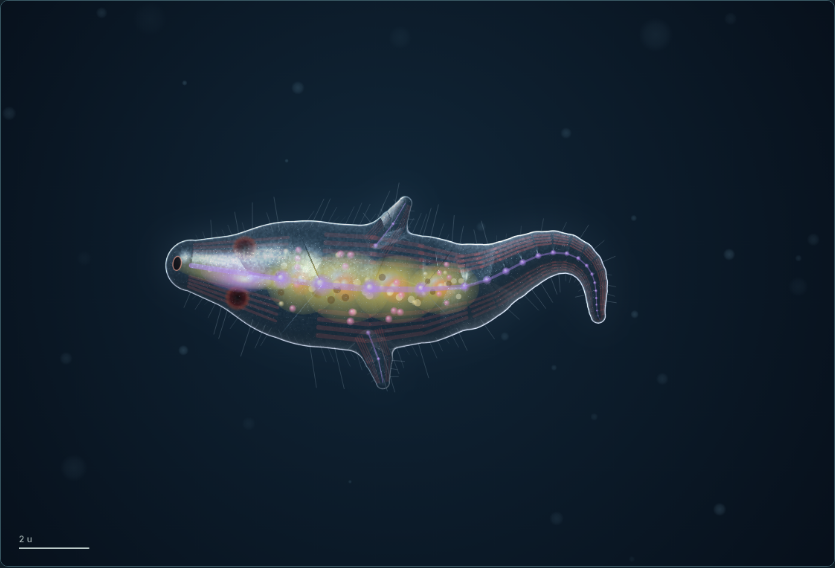
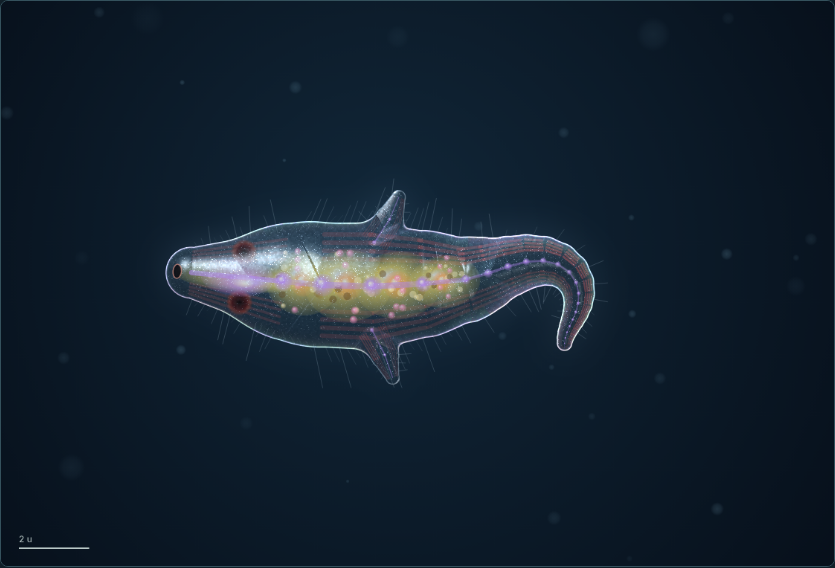
ALIFE 2.0: WebGL2 skin renderer with CPU fallback
Two-pass GPU version of the distance-field skin (field, then shading with
thin-film sheen). The CPU renderer stays as the reference and the fallback.

Claude-Session: https://claude.ai/code/session_01ES2d8R5HP5q9J5W3wr1sHc

Changed region(s): [[0.1868, 0.3292, 0.7473, 0.6884]]

diff --git a/alife2-gpu.js b/alife2-gpu.js
@@ -1,0 +1,135 @@
+// ALIFE 2.0 — WebGL2 skin renderer.
+//
+// Same method as the CPU renderer in alife2-render.js (capsule distance field,
+// exact union inside a chain, smooth union between chains, thickness as a
+// height field), evaluated per pixel on the GPU in two passes:
+//   1. field  : distance, local radius, thickness, tissue, body-fixed coords
+//   2. shade  : normals from the height field, translucent lit skin
+// The CPU renderer remains the reference and the fallback.
+(function (G) {
+  'use strict';
+  const A = G.ALIFE2 = G.ALIFE2 || {};
+  const MAXS = 192;
+  const VS = `#version 300 es
+in vec2 p; void main(){ gl_Position = vec4(p, 0., 1.); }`;
+  const FIELD = `#version 300 es
+precision highp float;
+uniform sampler2D uSeg; uniform int uN; uniform vec2 uRes;
+layout(location=0) out vec4 o0; layout(location=1) out vec4 o1;
+void merge(inout float S, inout float R, inout float Z, inout vec4 T, float gs, float gr, float gz, vec4 gt){
+  if (gs > 1e8) return;
+  if (S > 1e8) { S = gs; R = gr; Z = gz; T = gt; return; }
+  float k = 0.55 * min(R, gr) + 1.2, m = clamp(0.5 + 0.5 * (gs - S) / k, 0., 1.);
+  S = mix(gs, S, m) - k * m * (1. - m); R = mix(gr, R, m); Z = mix(gz, Z, m);
+  T = vec4(mix(gt.xy, T.xy, m), m < 0.5 ? gt.zw : T.zw);
+}
+void main(){
+  vec2 q = vec2(gl_FragCoord.x, uRes.y - gl_FragCoord.y);
+  float S = 1e9, R = 1., Z = 1.; vec4 T = vec4(0.);
+  float gs = 1e9, gr = 1., gz = 1., cur = -1.; vec4 gt = vec4(0.);
+  for (int i = 0; i < ${MAXS}; i++) {
+    if (i >= uN) break;
+    vec4 a = texelFetch(uSeg, ivec2(i, 0), 0), b = texelFetch(uSeg, ivec2(i, 1), 0), c = texelFetch(uSeg, ivec2(i, 2), 0);
+    if (c.z != cur) { merge(S, R, Z, T, gs, gr, gz, gt); cur = c.z; gs = 1e9; }
+    vec2 e = a.zw - a.xy, d = q - a.xy; float L2 = max(dot(e, e), 1e-9), L = sqrt(L2), tr = dot(d, e) / L2, t = clamp(tr, 0., 1.);
+    float r = mix(b.x, b.y, t), s = length(d - t * e) - r;
+    if (s < gs) { gs = s; gr = r; gz = mix(b.z, b.w, t); gt = vec4(c.x, c.y, c.w + tr * L, (d.x * e.y - d.y * e.x) / L); }
+  }
+  merge(S, R, Z, T, gs, gr, gz, gt);
+  float u = clamp(-S / R, 0., 1.);
+  o0 = vec4(S, R, Z, S > 0.5 ? 0. : Z * sqrt(u * (2. - u)));
+  o1 = T;
+}`;
+  const SHADE = `#version 300 es
+precision highp float;
+uniform sampler2D t0, t1; uniform vec3 uBody, uRim, uArm, uDeep;
+out vec4 o;
+float hash(vec2 p){ p = fract(p * vec2(123.34, 456.21)); p += dot(p, p + 45.32); return fract(p.x * p.y); }
+float noise(vec2 x){ vec2 i = floor(x), f = fract(x); f = f * f * (3. - 2. * f);
+  return mix(mix(hash(i), hash(i + vec2(1, 0)), f.x), mix(hash(i + vec2(0, 1)), hash(i + vec2(1, 1)), f.x), f.y); }
+float Hh(ivec2 c){ return texelFetch(t0, c, 0).w; }
+void main(){
+  ivec2 c = ivec2(gl_FragCoord.xy);
+  vec4 f = texelFetch(t0, c, 0); float s = f.x;
+  if (s > 0.5) { o = vec4(0.); return; }
+  vec4 T = texelFetch(t1, c, 0); float a = T.x, k = T.y, U = T.z, V = T.w, R = f.y, Z = f.z, H = f.w;
+  float cov = clamp(0.5 - s, 0., 1.);
+  // normal from the thickness field (canvas y is down, GL y is up); two scales to keep it smooth
+  float nx = (Hh(c + ivec2(-1, 0)) - Hh(c + ivec2(1, 0))) * 0.3 + (Hh(c + ivec2(-2, 0)) - Hh(c + ivec2(2, 0))) * 0.1;
+  float ny = (Hh(c + ivec2(0, 1)) - Hh(c + ivec2(0, -1))) * 0.3 + (Hh(c + ivec2(0, 2)) - Hh(c + ivec2(0, -2))) * 0.1;
+  vec3 n = normalize(vec3(nx, ny, 1.));
+  vec3 L = normalize(vec3(-0.42, -0.58, 0.70)), L2 = normalize(vec3(0.6, 0.5, 0.35)), Hv = normalize(L + vec3(0, 0, 1));
+  float diff = max(0., dot(n, L)), fill = max(0., dot(n, L2)), back = max(0., -dot(n.xy, L.xy) * 0.6 + n.z * 0.2);
+  float sp = pow(max(0., dot(n, Hv)), 30. + 60. * a) * (0.6 + 0.7 * a) + pow(max(0., dot(n, normalize(L2 + vec3(0, 0, 1)))), 40.) * 0.25;
+  float rim = pow(1. - n.z, 2.2), thick = H / (Z + 1e-6), e = -s;
+  // body-fixed texture: granules at three scales and fine rings around the body
+  float gr = noise(vec2(U, V) * 0.42), mid = noise(vec2(U, V) * 0.9 + 3.), fine = noise(vec2(U, V) * 1.9 + 9.);
+  float ring = 0.5 + 0.5 * sin(U * 6.283 / max(2.6, R * 0.16));
+  float tex = 0.70 + 0.34 * gr + 0.14 * mid + 0.12 * fine + (0.10 + 0.14 * a) * ring * thick;
+  float cut = exp(-(e - 0.9) * (e - 0.9) * 0.9), gap = exp(-(e - 3.2) * (e - 3.2) * 0.35);
+  float speck = smoothstep(0.80, 0.95, fine) * thick * 0.5;
+  // thin-film sheen on the cuticle, strongest at grazing angles
+  vec3 film = 0.5 + 0.5 * cos(6.283 * (vec3(0., 0.33, 0.67) + n.z * 1.4 + U * 0.004 + gr * 0.25));
+  vec3 base = mix(uBody, uArm, a);
+  float edge = rim * 0.6 + cut * 0.4 + speck;
+  vec3 col = base * (0.20 + 0.58 * diff + 0.12 * fill) * tex + uDeep * 0.20 * back + uRim * edge + film * rim * (0.22 + 0.25 * a) + sp;
+  float al = (0.05 + 0.34 * k + 0.40 * a) * (0.35 + 0.65 * thick) * (0.65 + 0.7 * gr) * (1. - 0.45 * gap) + rim * 0.55 + cut * 0.42 + sp + speck * 0.6;
+  al = min(al, 0.96) * cov;
+  o = vec4(col * al, al);
+}`;
+
+  class GpuSkin {
+    constructor() {
+      this.ok = false;
+      try {
+        this.canvas = typeof OffscreenCanvas !== 'undefined' ? new OffscreenCanvas(16, 16) : document.createElement('canvas');
+        const gl = this.gl = this.canvas.getContext('webgl2', { alpha: true, premultipliedAlpha: true, antialias: false });
+        if (!gl || !gl.getExtension('EXT_color_buffer_float')) return;
+        const sh = (t, src) => { const s = gl.createShader(t); gl.shaderSource(s, src); gl.compileShader(s); if (!gl.getShaderParameter(s, gl.COMPILE_STATUS)) throw new Error(gl.getShaderInfoLog(s)); return s; };
+        const prog = fs => { const p = gl.createProgram(); gl.attachShader(p, sh(gl.VERTEX_SHADER, VS)); gl.attachShader(p, sh(gl.FRAGMENT_SHADER, fs)); gl.bindAttribLocation(p, 0, 'p'); gl.linkProgram(p); if (!gl.getProgramParameter(p, gl.LINK_STATUS)) throw new Error(gl.getProgramInfoLog(p)); return p; };
+        this.pField = prog(FIELD); this.pShade = prog(SHADE);
+        const vb = gl.createBuffer(); gl.bindBuffer(gl.ARRAY_BUFFER, vb); gl.bufferData(gl.ARRAY_BUFFER, new Float32Array([-1, -1, 3, -1, -1, 3]), gl.STATIC_DRAW);
+        gl.enableVertexAttribArray(0); gl.vertexAttribPointer(0, 2, gl.FLOAT, false, 0, 0);
+        this.seg = gl.createTexture(); this.data = new Float32Array(MAXS * 3 * 4);
+        gl.bindTexture(gl.TEXTURE_2D, this.seg); gl.texImage2D(gl.TEXTURE_2D, 0, gl.RGBA32F, MAXS, 3, 0, gl.RGBA, gl.FLOAT, this.data);
+        gl.texParameteri(gl.TEXTURE_2D, gl.TEXTURE_MIN_FILTER, gl.NEAREST); gl.texParameteri(gl.TEXTURE_2D, gl.TEXTURE_MAG_FILTER, gl.NEAREST);
+        this.fbo = gl.createFramebuffer(); this.tex = [gl.createTexture(), gl.createTexture()]; this.w = 0; this.h = 0;
+        this.ok = true;
+      } catch (e) { this.error = String(e.message || e); this.ok = false; }
+    }
+    resize(w, h) {
+      if (w === this.w && h === this.h) return;
+      const gl = this.gl; this.w = w; this.h = h; this.canvas.width = w; this.canvas.height = h;
+      gl.bindFramebuffer(gl.FRAMEBUFFER, this.fbo);
+      this.tex.forEach((t, i) => {
+        gl.bindTexture(gl.TEXTURE_2D, t); gl.texImage2D(gl.TEXTURE_2D, 0, gl.RGBA32F, w, h, 0, gl.RGBA, gl.FLOAT, null);
+        gl.texParameteri(gl.TEXTURE_2D, gl.TEXTURE_MIN_FILTER, gl.NEAREST); gl.texParameteri(gl.TEXTURE_2D, gl.TEXTURE_MAG_FILTER, gl.NEAREST);
+        gl.framebufferTexture2D(gl.FRAMEBUFFER, gl.COLOR_ATTACHMENT0 + i, gl.TEXTURE_2D, t, 0);
+      });
+      gl.drawBuffers([gl.COLOR_ATTACHMENT0, gl.COLOR_ATTACHMENT1]);
+      if (gl.checkFramebufferStatus(gl.FRAMEBUFFER) !== gl.FRAMEBUFFER_COMPLETE) this.ok = false;
+    }
+    // groups: arrays of pixel-space segments in draw order (from Renderer.layout). Returns the skin canvas.
+    render(groups, w, h, colors) {
+      const gl = this.gl, d = this.data; this.resize(w, h); if (!this.ok) return null;
+      let n = 0;
+      for (const grp of groups) for (const p of grp) {
+        if (n >= MAXS) break;
+        d.set([p.ax, p.ay, p.bx, p.by], n * 4); d.set([p.r0, p.r1, p.z0, p.z1], (MAXS + n) * 4); d.set([p.armor, p.skin, p.group, p.u0], (2 * MAXS + n) * 4); n++;
+      }
+      gl.viewport(0, 0, w, h); gl.disable(gl.BLEND);
+      gl.activeTexture(gl.TEXTURE0); gl.bindTexture(gl.TEXTURE_2D, this.seg); gl.texSubImage2D(gl.TEXTURE_2D, 0, 0, 0, MAXS, 3, gl.RGBA, gl.FLOAT, d);
+      gl.bindFramebuffer(gl.FRAMEBUFFER, this.fbo); gl.useProgram(this.pField);
+      gl.uniform1i(gl.getUniformLocation(this.pField, 'uSeg'), 0); gl.uniform1i(gl.getUniformLocation(this.pField, 'uN'), n); gl.uniform2f(gl.getUniformLocation(this.pField, 'uRes'), w, h);
+      gl.drawArrays(gl.TRIANGLES, 0, 3);
+      gl.bindFramebuffer(gl.FRAMEBUFFER, null); gl.useProgram(this.pShade);
+      gl.activeTexture(gl.TEXTURE0); gl.bindTexture(gl.TEXTURE_2D, this.tex[0]); gl.activeTexture(gl.TEXTURE1); gl.bindTexture(gl.TEXTURE_2D, this.tex[1]);
+      gl.uniform1i(gl.getUniformLocation(this.pShade, 't0'), 0); gl.uniform1i(gl.getUniformLocation(this.pShade, 't1'), 1);
+      for (const k of ['Body', 'Rim', 'Arm', 'Deep']) gl.uniform3fv(gl.getUniformLocation(this.pShade, 'u' + k), colors[k.toLowerCase()]);
+      gl.clearColor(0, 0, 0, 0); gl.clear(gl.COLOR_BUFFER_BIT); gl.drawArrays(gl.TRIANGLES, 0, 3);
+      return this.canvas;
+    }
+  }
+
+  A.gpu = { GpuSkin, MAXS };
+})(typeof globalThis !== 'undefined' ? globalThis : this);

diff --git a/alife2-render.js b/alife2-render.js
@@ -30,6 +30,21 @@
       this.img = this.canvas ? this.canvas.getContext('2d').createImageData(w, h) : { data: new Uint8ClampedArray(n * 4), width: w, height: h };
     }
 
+    // Pixel-space segments grouped by chain, thickest chain first, with a running body coordinate u0.
+    layout(segs, view, q) {
+      const w = Math.max(8, Math.round(view.w * q)), h = Math.max(8, Math.round(view.h * q)), sc = view.scale * q;
+      const ps = segs.map(s => ({
+        ax: (s.ax - view.cx) * sc + w / 2, ay: (s.ay - view.cy) * sc + h / 2, bx: (s.bx - view.cx) * sc + w / 2, by: (s.by - view.cy) * sc + h / 2,
+        r0: Math.max(0.35, s.r0 * sc), r1: Math.max(0.35, s.r1 * sc), z0: Math.max(0.35, s.z0 * sc), z1: Math.max(0.35, s.z1 * sc), armor: s.p.armor, skin: s.p.skin, group: s.group
+      }));
+      const groups = new Map();
+      for (const p of ps) { if (!groups.has(p.group)) groups.set(p.group, []); groups.get(p.group).push(p); }
+      const order = [...groups.values()].sort((a, b) => Math.max(...b.map(p => p.r0)) - Math.max(...a.map(p => p.r0)));
+      for (const grp of order) { let run = grp[0].group * 37.3; for (const p of grp) { p.u0 = run; run += Math.hypot(p.bx - p.ax, p.by - p.ay); } }
+      return order;
+    }
+    colors(hue) { return { body: hsl(hue, 0.30, 0.60), rim: hsl(hue + 25, 0.45, 0.88), arm: hsl(hue - 25, 0.22, 0.55), deep: hsl(hue + 200, 0.5, 0.3) }; }
+
     // segs: world-space segments (plan.segs or body.segs). view: {cx, cy, scale, w, h}.
     // Returns the RGBA field; the bounding box drawn is left in this.box.
     field(segs, view, opt) {
@@ -38,13 +53,7 @@
       this.resize(w, h);
       const { S, R, Z, AR, SK, H, U, V, s2, r2, z2, a2, k2, u2, v2 } = this;
       S.fill(BIG);
-      const ps = segs.map(s => ({
-        ax: (s.ax - view.cx) * sc + w / 2, ay: (s.ay - view.cy) * sc + h / 2, bx: (s.bx - view.cx) * sc + w / 2, by: (s.by - view.cy) * sc + h / 2,
-        r0: Math.max(0.35, s.r0 * sc), r1: Math.max(0.35, s.r1 * sc), z0: Math.max(0.35, s.z0 * sc), z1: Math.max(0.35, s.z1 * sc), armor: s.p.armor, skin: s.p.skin, group: s.group
-      }));
-      const groups = new Map();
-      for (const p of ps) { if (!groups.has(p.group)) groups.set(p.group, []); groups.get(p.group).push(p); }
-      const order = [...groups.values()].sort((a, b) => Math.max(...b.map(p => p.r0)) - Math.max(...a.map(p => p.r0)));
+      const order = this.layout(segs, view, q);
       let X0 = w, Y0 = h, X1 = 0, Y1 = 0;
       for (const grp of order) {
         let gx0 = w, gy0 = h, gx1 = 0, gy1 = 0, rmax = 0;
@@ -58,9 +67,8 @@
         }
         if (gx1 < gx0 || gy1 < gy0) continue;
         for (let y = gy0; y <= gy1; y++) s2.fill(BIG, y * w + gx0, y * w + gx1 + 1);
-        let run = grp[0].group * 37.3;
         for (const p of grp) {
-          const u0 = run; run += Math.hypot(p.bx - p.ax, p.by - p.ay);
+          const u0 = p.u0;
           const ex = p.bx - p.ax, ey = p.by - p.ay, L2 = ex * ex + ey * ey || 1e-9, dr = p.r1 - p.r0, dz = p.z1 - p.z0;
           for (let y = p.y0; y <= p.y1; y++) {
             const dy = y + 0.5 - p.ay; let i = y * w + p.x0;
@@ -92,7 +100,7 @@
         H[i] = Z[i] * Math.sqrt(u * (2 - u));
       }
       const hue = opt.hue == null ? 170 : opt.hue;
-      const body = hsl(hue, 0.30, 0.60), rimC = hsl(hue + 25, 0.45, 0.88), arm = hsl(hue - 25, 0.22, 0.55), deep = hsl(hue + 200, 0.5, 0.3);
+      const { body, rim: rimC, arm, deep } = this.colors(hue);
       const lx = -0.42, ly = -0.58, lz = 0.70, hx = lx, hy = ly, hz = lz + 1, hn = Math.hypot(hx, hy, hz);
       for (let y = Y0; y <= Y1; y++) for (let x = X0, i = y * w + X0; x <= X1; x++, i++) {
         const s = S[i]; if (s > 0.5) continue;
@@ -119,15 +127,19 @@
     // Full picture: shadow, organs, skin, surface structures.
     draw(ctx, segs, view, opt) {
       opt = opt || {};
-      const img = this.field(segs, view, opt), q = this.box[4];
-      this.canvas.getContext('2d').putImageData(img, 0, 0);
+      let skin = null; this.used = 'cpu';
+      if (opt.gpu !== false && A.gpu) {
+        if (!this.gpuSkin) this.gpuSkin = new A.gpu.GpuSkin();
+        if (this.gpuSkin.ok && segs.length <= A.gpu.MAXS) { skin = this.gpuSkin.render(this.layout(segs, view, 1), view.w, view.h, this.colors(opt.hue == null ? 170 : opt.hue)); if (skin) this.used = 'gpu'; }
+      }
+      if (!skin) { const img = this.field(segs, view, opt); this.canvas.getContext('2d').putImageData(img, 0, 0); skin = this.canvas; }
       const T = (x, y) => [(x - view.cx) * view.scale + view.w / 2, (y - view.cy) * view.scale + view.h / 2], sc = view.scale;
       ctx.save();
       ctx.imageSmoothingEnabled = true; ctx.imageSmoothingQuality = 'high';
-      if (opt.shadow) { ctx.save(); ctx.globalAlpha = 0.45; ctx.filter = 'brightness(0) blur(' + Math.max(2, sc * 0.35) + 'px)'; ctx.drawImage(this.canvas, sc * 0.35, sc * 0.5, view.w, view.h); ctx.restore(); }
-      if (opt.glow !== false) { ctx.save(); ctx.globalAlpha = 0.35; ctx.globalCompositeOperation = 'lighter'; ctx.filter = 'blur(' + Math.max(3, sc * 0.5) + 'px)'; ctx.drawImage(this.canvas, 0, 0, view.w, view.h); ctx.restore(); }
+      if (opt.shadow) { ctx.save(); ctx.globalAlpha = 0.45; ctx.filter = 'brightness(0) blur(' + Math.max(2, sc * 0.35) + 'px)'; ctx.drawImage(skin, sc * 0.35, sc * 0.5, view.w, view.h); ctx.restore(); }
+      if (opt.glow !== false) { ctx.save(); ctx.globalAlpha = 0.35; ctx.globalCompositeOperation = 'lighter'; ctx.filter = 'blur(' + Math.max(3, sc * 0.5) + 'px)'; ctx.drawImage(skin, 0, 0, view.w, view.h); ctx.restore(); }
       if (opt.internals !== false) this.organs(ctx, segs, T, sc, opt);
-      ctx.drawImage(this.canvas, 0, 0, view.w, view.h);
+      ctx.drawImage(skin, 0, 0, view.w, view.h);
       this.surface(ctx, segs, T, sc, opt);
       ctx.restore();
     }

diff --git a/alife2-lab.js b/alife2-lab.js
@@ -75,7 +75,7 @@
   function frame(ms) {
     const mode = $('mode').value, dt = 1 / 60, ground = $('env').value === 'ground';
     if (mode === 'gallery') { drawGallery(dt); requestAnimationFrame(frame); return; }
-    const o = { hue: genome.hue, internals: $('internals').checked, shadow: ground && mode !== 'design', time: body.t };
+    const o = { gpu: $('gfx').value === 'gpu', hue: genome.hue, internals: $('internals').checked, shadow: ground && mode !== 'design', time: body.t };
     if (mode === 'live') {
       if (!paused) {
         body.cmd = cmd(); A.physics.step(body, dt);
@@ -106,7 +106,7 @@
       t += '\n実測（直近 ' + T.toFixed(1) + ' 秒）：速度 ' + (d / T).toFixed(2) + ' u/s ＝ ' + (d / T / info.length).toFixed(3) + ' 体長/s / 筋仕事率 ' + pw.toFixed(0)
         + ' / 移動コスト ' + (d > 0.05 ? (pw * T / (body.mass * d)).toFixed(0) : '—（ほぼ移動なし）') + (body.env.ground ? ' / 脚が支える体重 ' + ((body.carried || 0) * 100).toFixed(0) + '%' : '');
     }
-    $('stats').textContent = t;
+    $('stats').textContent = t + '\n描画：' + (renderer.used === 'gpu' ? 'GPU (WebGL2)' : 'CPU') + (renderer.gpuSkin && !renderer.gpuSkin.ok ? '（GPU不可：' + (renderer.gpuSkin.error || '浮動小数点描画非対応') + '）' : '');
   }
   function drawGallery(dt) {
     if (!gallery) gallery = A.bodyplan.SAMPLES.map(s => {
@@ -122,7 +122,7 @@
       const sc = Math.min((w - 40) / (q.d.length + 3), (h - 60) / (q.d.width + 3)) * 0.9, v = { cx: q.cx, cy: q.cy, scale: sc, w: Math.round(w), h: Math.round(h) };
       ctx.save(); ctx.translate(x, y); ctx.beginPath(); ctx.rect(0, 0, w, h); ctx.clip();
       const g = ctx.createRadialGradient(w * 0.45, h * 0.4, 0, w / 2, h / 2, w * 0.8); g.addColorStop(0, q.s.env === 'ground' ? '#1b2a2a' : '#12283a'); g.addColorStop(1, '#050a12'); ctx.fillStyle = g; ctx.fillRect(0, 0, w, h);
-      q.r.draw(ctx, q.b.segs, v, { hue: q.g.hue, internals: $('internals').checked, shadow: q.s.env === 'ground', time: q.b.t });
+      q.r.draw(ctx, q.b.segs, v, { gpu: $('gfx').value === 'gpu', hue: q.g.hue, internals: $('internals').checked, shadow: q.s.env === 'ground', time: q.b.t });
       ctx.fillStyle = '#e8f5f0'; ctx.font = '600 15px system-ui'; ctx.fillText(q.s.name, 14, 24);
       ctx.fillStyle = '#9fb8bd'; ctx.font = '12px system-ui'; ctx.fillText('体節 ' + q.d.segments + ' / 付属肢 ' + q.d.appendages + ' / ' + (q.s.env === 'ground' ? '底面' : '水中'), 14, 42);
       ctx.strokeStyle = '#2b414c'; ctx.strokeRect(0.5, 0.5, w - 1, h - 1); ctx.restore();
@@ -147,6 +147,7 @@
   if (query.get('env')) { $('env').value = query.get('env'); rebuild(true); }
   if (query.get('seed')) rngM = A.genome.rng(Number(query.get('seed')));
   if (query.get('mutate')) mut(Number(query.get('mutate')));
+  if (query.get('gfx')) $('gfx').value = query.get('gfx');
   if (query.get('internals') === '0') $('internals').checked = false;
   if (query.get('skeleton') === '1') $('skeleton').checked = true;
   const pre = Number(query.get('t') || 0);

diff --git a/alife2-lab.html b/alife2-lab.html
@@ -55,6 +55,7 @@ summary{cursor:pointer;font-weight:600}
     <div class="controls">
       <label>表示 <select id="mode"><option value="design">設計図</option><option value="body">発生した身体</option><option value="live" selected>実際の運動</option><option value="gallery">5系統一覧</option></select></label>
       <label>環境 <select id="env"><option value="fluid">水中（遊泳）</option><option value="ground">底面（接地）</option><option value="vacuum">真空（抵抗なし）</option></select></label>
+      <label>描画 <select id="gfx"><option value="gpu">GPU (WebGL2)</option><option value="cpu">CPU</option></select></label>
       <label><input id="internals" type="checkbox" checked>内部器官</label>
       <label><input id="skeleton" type="checkbox">骨格重ね</label>
       <button id="pause">一時停止</button>
@@ -78,6 +79,7 @@ summary{cursor:pointer;font-weight:600}
 <script src="./alife2-neural.js"></script>
 <script src="./alife2-physics.js"></script>
 <script src="./alife2-render.js"></script>
+<script src="./alife2-gpu.js"></script>
 <script src="./alife2-bodyplan.js"></script>
 <script src="./alife2-lab.js"></script>
 </body>

diff --git a/alife2-sheet.html b/alife2-sheet.html
@@ -21,6 +21,7 @@ p{color:#a8bdc5}canvas{width:100%;height:auto;display:block;border:1px solid #34
 <script src="./alife2-neural.js"></script>
 <script src="./alife2-physics.js"></script>
 <script src="./alife2-render.js"></script>
+<script src="./alife2-gpu.js"></script>
 <script src="./alife2-bodyplan.js"></script>
 <script>
 (function () {
